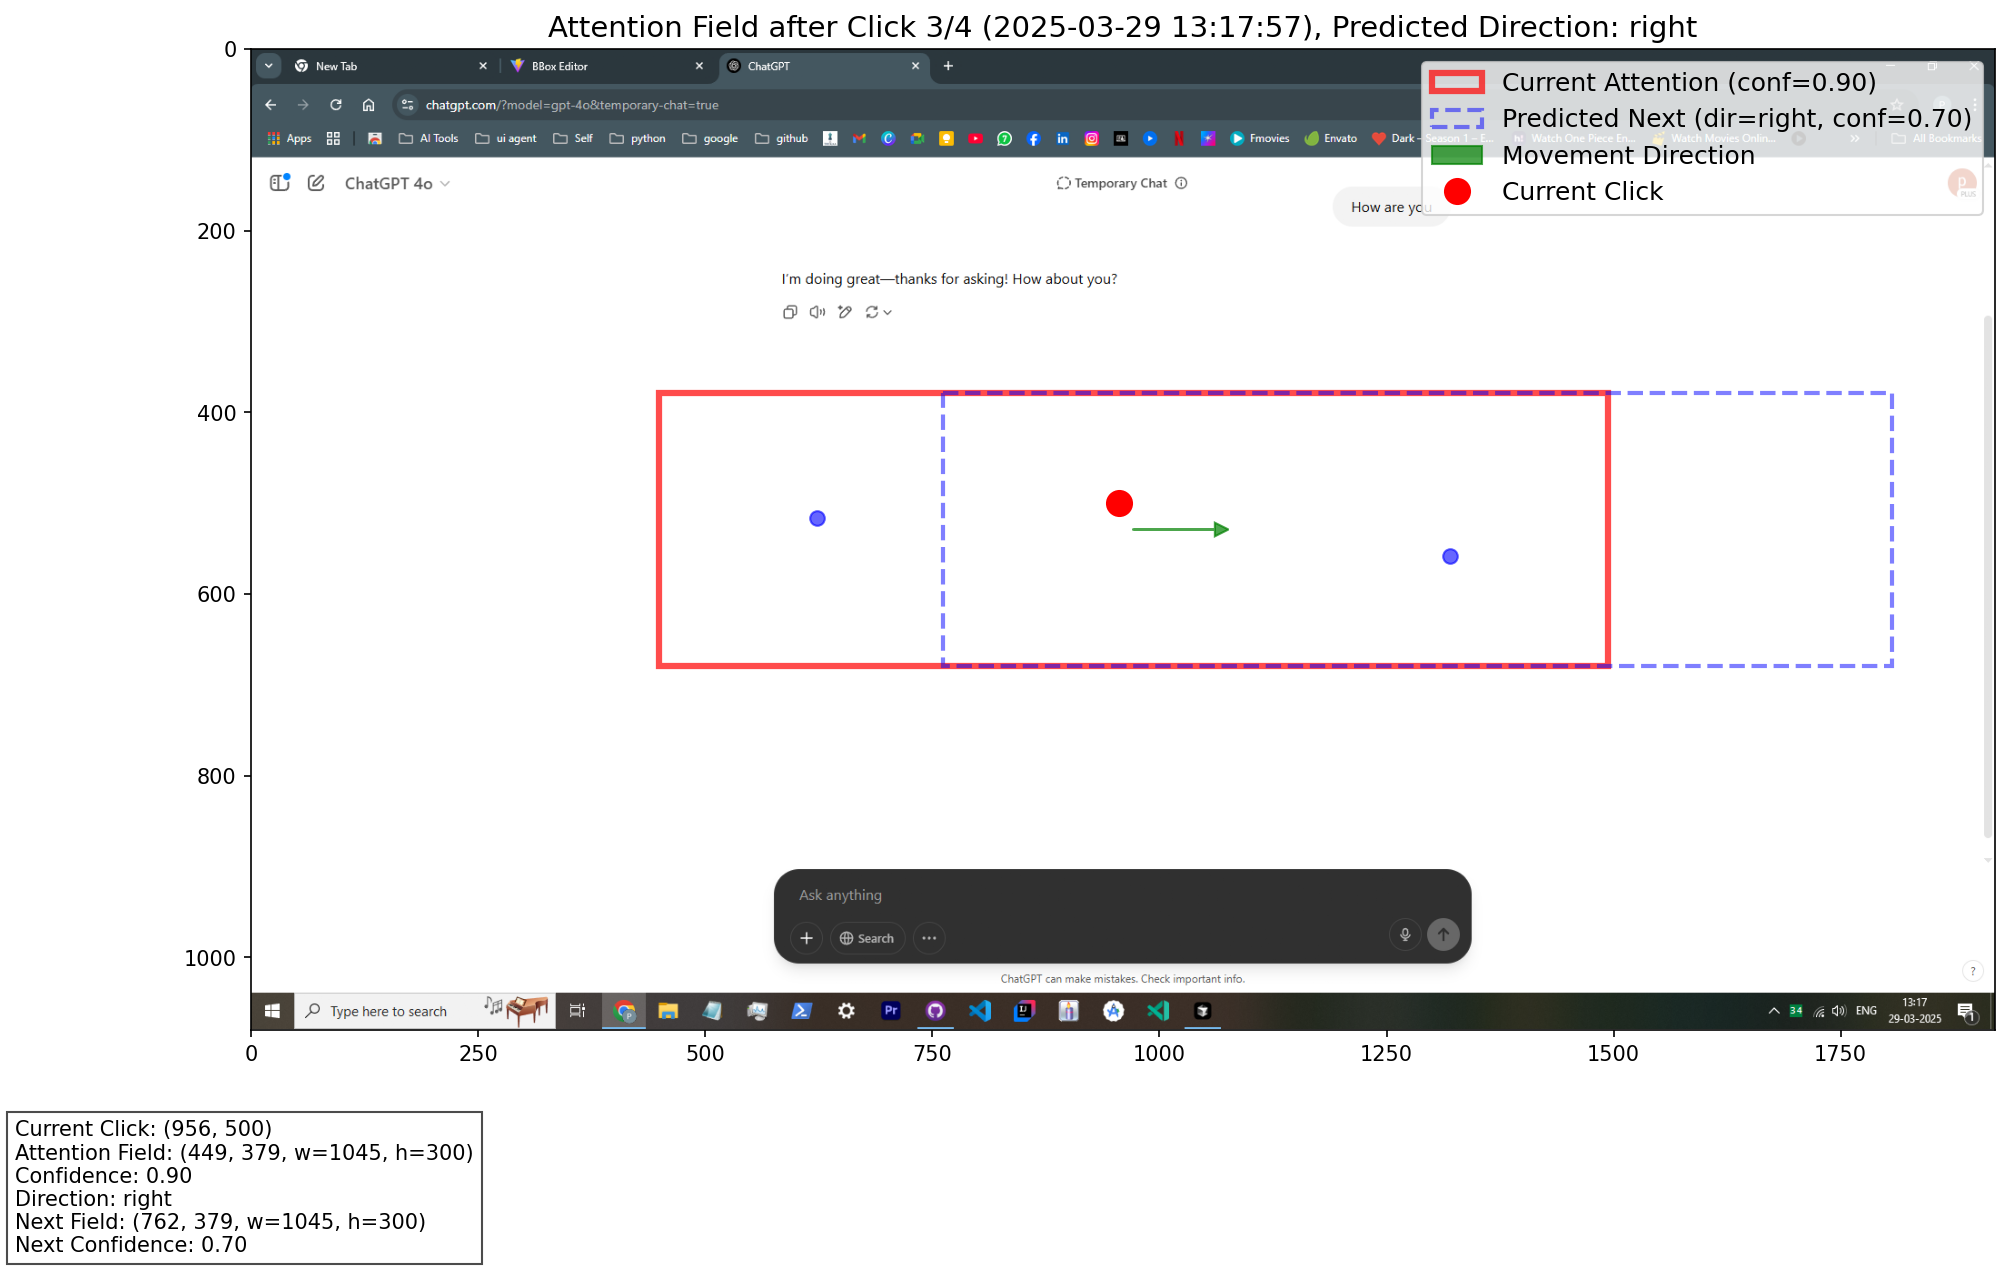
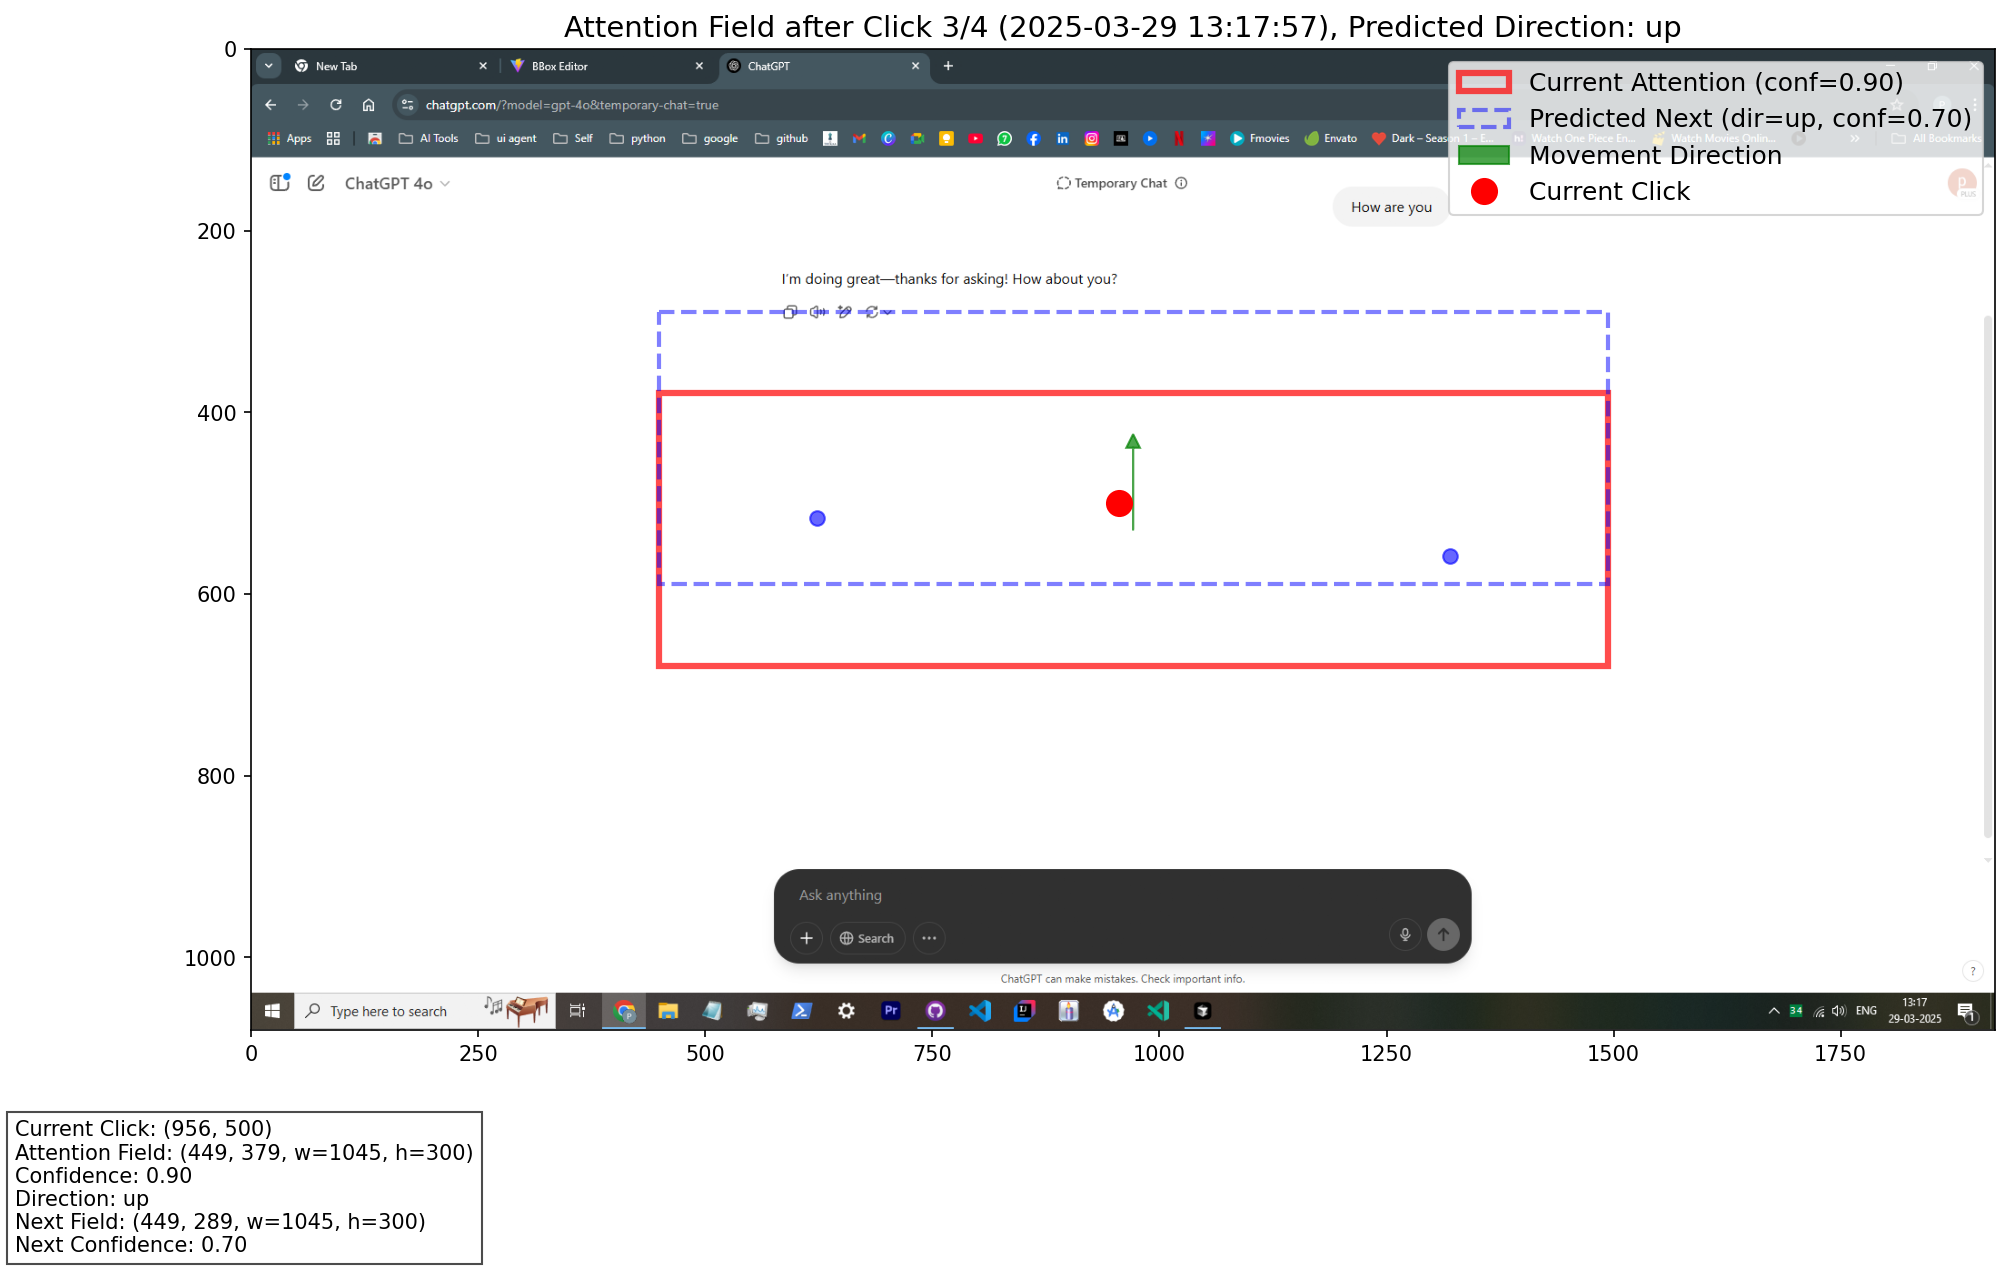
update

diff --git a/karna-python-backend/inference/omniparser/attention_controller.py b/karna-python-backend/inference/omniparser/attention_controller.py
@@ -258,85 +258,113 @@ class AttentionFieldController:
             
     def _infer_movement_direction(self) -> Optional[str]:
         """
-        Infer the movement direction from the history of core attention centers
-        using a weighted trend analysis.
-        
-        This method analyzes the available centers in `center_history` (up to
-        `click_history_limit`), giving more weight to recent movements. It
-        calculates a weighted average direction vector and converts it to one
-        of the four cardinal directions.
-        
+        Infer the movement direction using a hybrid approach:
+        1. Check the direction of the most recent center movement.
+           If it's significant and strongly axial (horizontal/vertical), use that direction.
+        2. Otherwise, fall back to a weighted trend analysis of the entire center history.
+
+        This prioritizes responsiveness to clear recent shifts while smoothing ambiguous ones.
+
         Returns:
             Direction as 'up', 'down', 'left', 'right', or None if can't determine
         """
-        # Need at least 2 centers to determine a direction
+        # Need at least 2 centers to determine any direction
         if len(self.center_history) < 2:
             logger.debug("Cannot infer movement direction: Need at least 2 centers in history")
             return None
-        
-        logger.debug(f"Inferring movement direction from {len(self.center_history)} centers")
-        
+
+        # --- Hybrid Approach: Check last movement first ---
+        cx_n_minus_1, cy_n_minus_1 = self.center_history[-2]
+        cx_n, cy_n = self.center_history[-1]
+
+        dx_last = cx_n - cx_n_minus_1
+        dy_last = cy_n - cy_n_minus_1
+        mag_last = math.sqrt(dx_last**2 + dy_last**2)
+
+        logger.debug(f"Last center movement: ({cx_n_minus_1},{cy_n_minus_1}) -> ({cx_n},{cy_n}), delta=({dx_last},{dy_last}), mag={mag_last:.2f}")
+
+        MIN_MAGNITUDE = 5.0  # Minimum pixels of movement to consider significant
+        DOMINANCE_RATIO = 3.0 # How much larger one axis delta must be than the other
+
+        if mag_last >= MIN_MAGNITUDE:
+            # Check for dominant axial movement
+            if abs(dy_last) > DOMINANCE_RATIO * abs(dx_last):
+                direction = 'up' if dy_last < 0 else 'down'
+                logger.info(f"Inferred direction from dominant last vertical movement: {direction}")
+                return direction
+            elif abs(dx_last) > DOMINANCE_RATIO * abs(dy_last):
+                direction = 'left' if dx_last < 0 else 'right'
+                logger.info(f"Inferred direction from dominant last horizontal movement: {direction}")
+                return direction
+            else:
+                logger.debug("Last movement is significant but not strongly axial, proceeding to weighted average.")
+        else:
+            logger.debug(f"Last movement magnitude {mag_last:.2f} < {MIN_MAGNITUDE}, proceeding to weighted average.")
+
+        # --- Fallback: Weighted Average Trend Analysis ---
+        logger.debug(f"Inferring movement direction using weighted average of {len(self.center_history)} centers")
+
         # Initialize weighted direction accumulators
         weighted_dx = 0.0
         weighted_dy = 0.0
         total_weight = 0.0
-        
+
         # Number of movement vectors (pairs of centers)
         num_pairs = len(self.center_history) - 1
-        
+
         # Process each consecutive pair of centers
         for i in range(num_pairs):
             # Get current and next center coordinates
             cx1, cy1 = self.center_history[i]
             cx2, cy2 = self.center_history[i+1]
-            
+
             # Calculate movement vector
             dx = cx2 - cx1
             dy = cy2 - cy1
-            
+
             # Calculate weight based on recency (1-based index, more recent = higher index)
             pair_index = i + 1
-            weight = (pair_index / num_pairs) ** 1.5 # Power factor gives more emphasis to recent pairs
-            
+            # Using power factor 1.5 as before for the weighted average part
+            weight = (pair_index / num_pairs) ** 1.5
+
             # Accumulate weighted vectors
             weighted_dx += dx * weight
             weighted_dy += dy * weight
             total_weight += weight
-            
-            logger.debug(f"Center movement vector {i+1}/{num_pairs}: ({cx1},{cy1}) -> ({cx2},{cy2}), "
-                       f"delta=({dx},{dy}), weight={weight:.3f}")
-        
-        # Avoid division by zero
+
+            # logger.debug(f"Center movement vector {i+1}/{num_pairs}: ({cx1},{cy1}) -> ({cx2},{cy2}), "
+            #            f"delta=({dx},{dy}), weight={weight:.3f}") # Can be verbose
+
+        # Avoid division by zero (shouldn't happen if num_pairs >= 1)
         if total_weight == 0:
-            logger.warning("Total weight is zero, cannot determine direction")
+            logger.warning("Total weight is zero in weighted average, cannot determine direction")
             return None
-        
+
         # Compute average direction vector
         avg_dx = weighted_dx / total_weight
         avg_dy = weighted_dy / total_weight
-        
+
         # Calculate vector magnitude
         magnitude = math.sqrt(avg_dx**2 + avg_dy**2)
-        
+
         logger.debug(f"Weighted average center movement vector: ({avg_dx:.2f}, {avg_dy:.2f}), magnitude: {magnitude:.2f}")
-        
-        # If the movement is too small, consider it no meaningful direction
-        MIN_MAGNITUDE = 5.0  # Minimum pixels of movement to consider significant
+
+        # If the average movement is too small, consider it no meaningful direction
         if magnitude < MIN_MAGNITUDE:
-            logger.debug(f"Center movement magnitude {magnitude:.2f} < {MIN_MAGNITUDE}, considered insignificant")
+            logger.debug(f"Weighted average magnitude {magnitude:.2f} < {MIN_MAGNITUDE}, considered insignificant")
             return None
-        
+
         # Calculate angle in degrees
         # Note: We negate dy because screen Y-axis increases downward
         angle_rad = math.atan2(-avg_dy, avg_dx)
         angle_deg = math.degrees(angle_rad)
-        
+
         # Normalize to 0-360° range
         if angle_deg < 0:
             angle_deg += 360
-            
-        logger.debug(f"Center movement angle: {angle_deg:.2f}°")
-        
+
+        logger.debug(f"Weighted average center movement angle: {angle_deg:.2f}°")
+
         # Convert angle to cardinal direction
         if 45 <= angle_deg < 135:
             direction = 'up'
@@ -346,8 +374,8 @@ class AttentionFieldController:
             direction = 'down'
         else:  # 315 <= angle_deg < 360 or 0 <= angle_deg < 45
             direction = 'right'
-            
-        logger.info(f"Inferred movement direction from centers: {direction} (angle: {angle_deg:.2f}°)")
+
+        logger.info(f"Inferred movement direction from weighted average: {direction} (angle: {angle_deg:.2f}°)")
         return direction
     
     def _update_attention_field(self) -> None:
